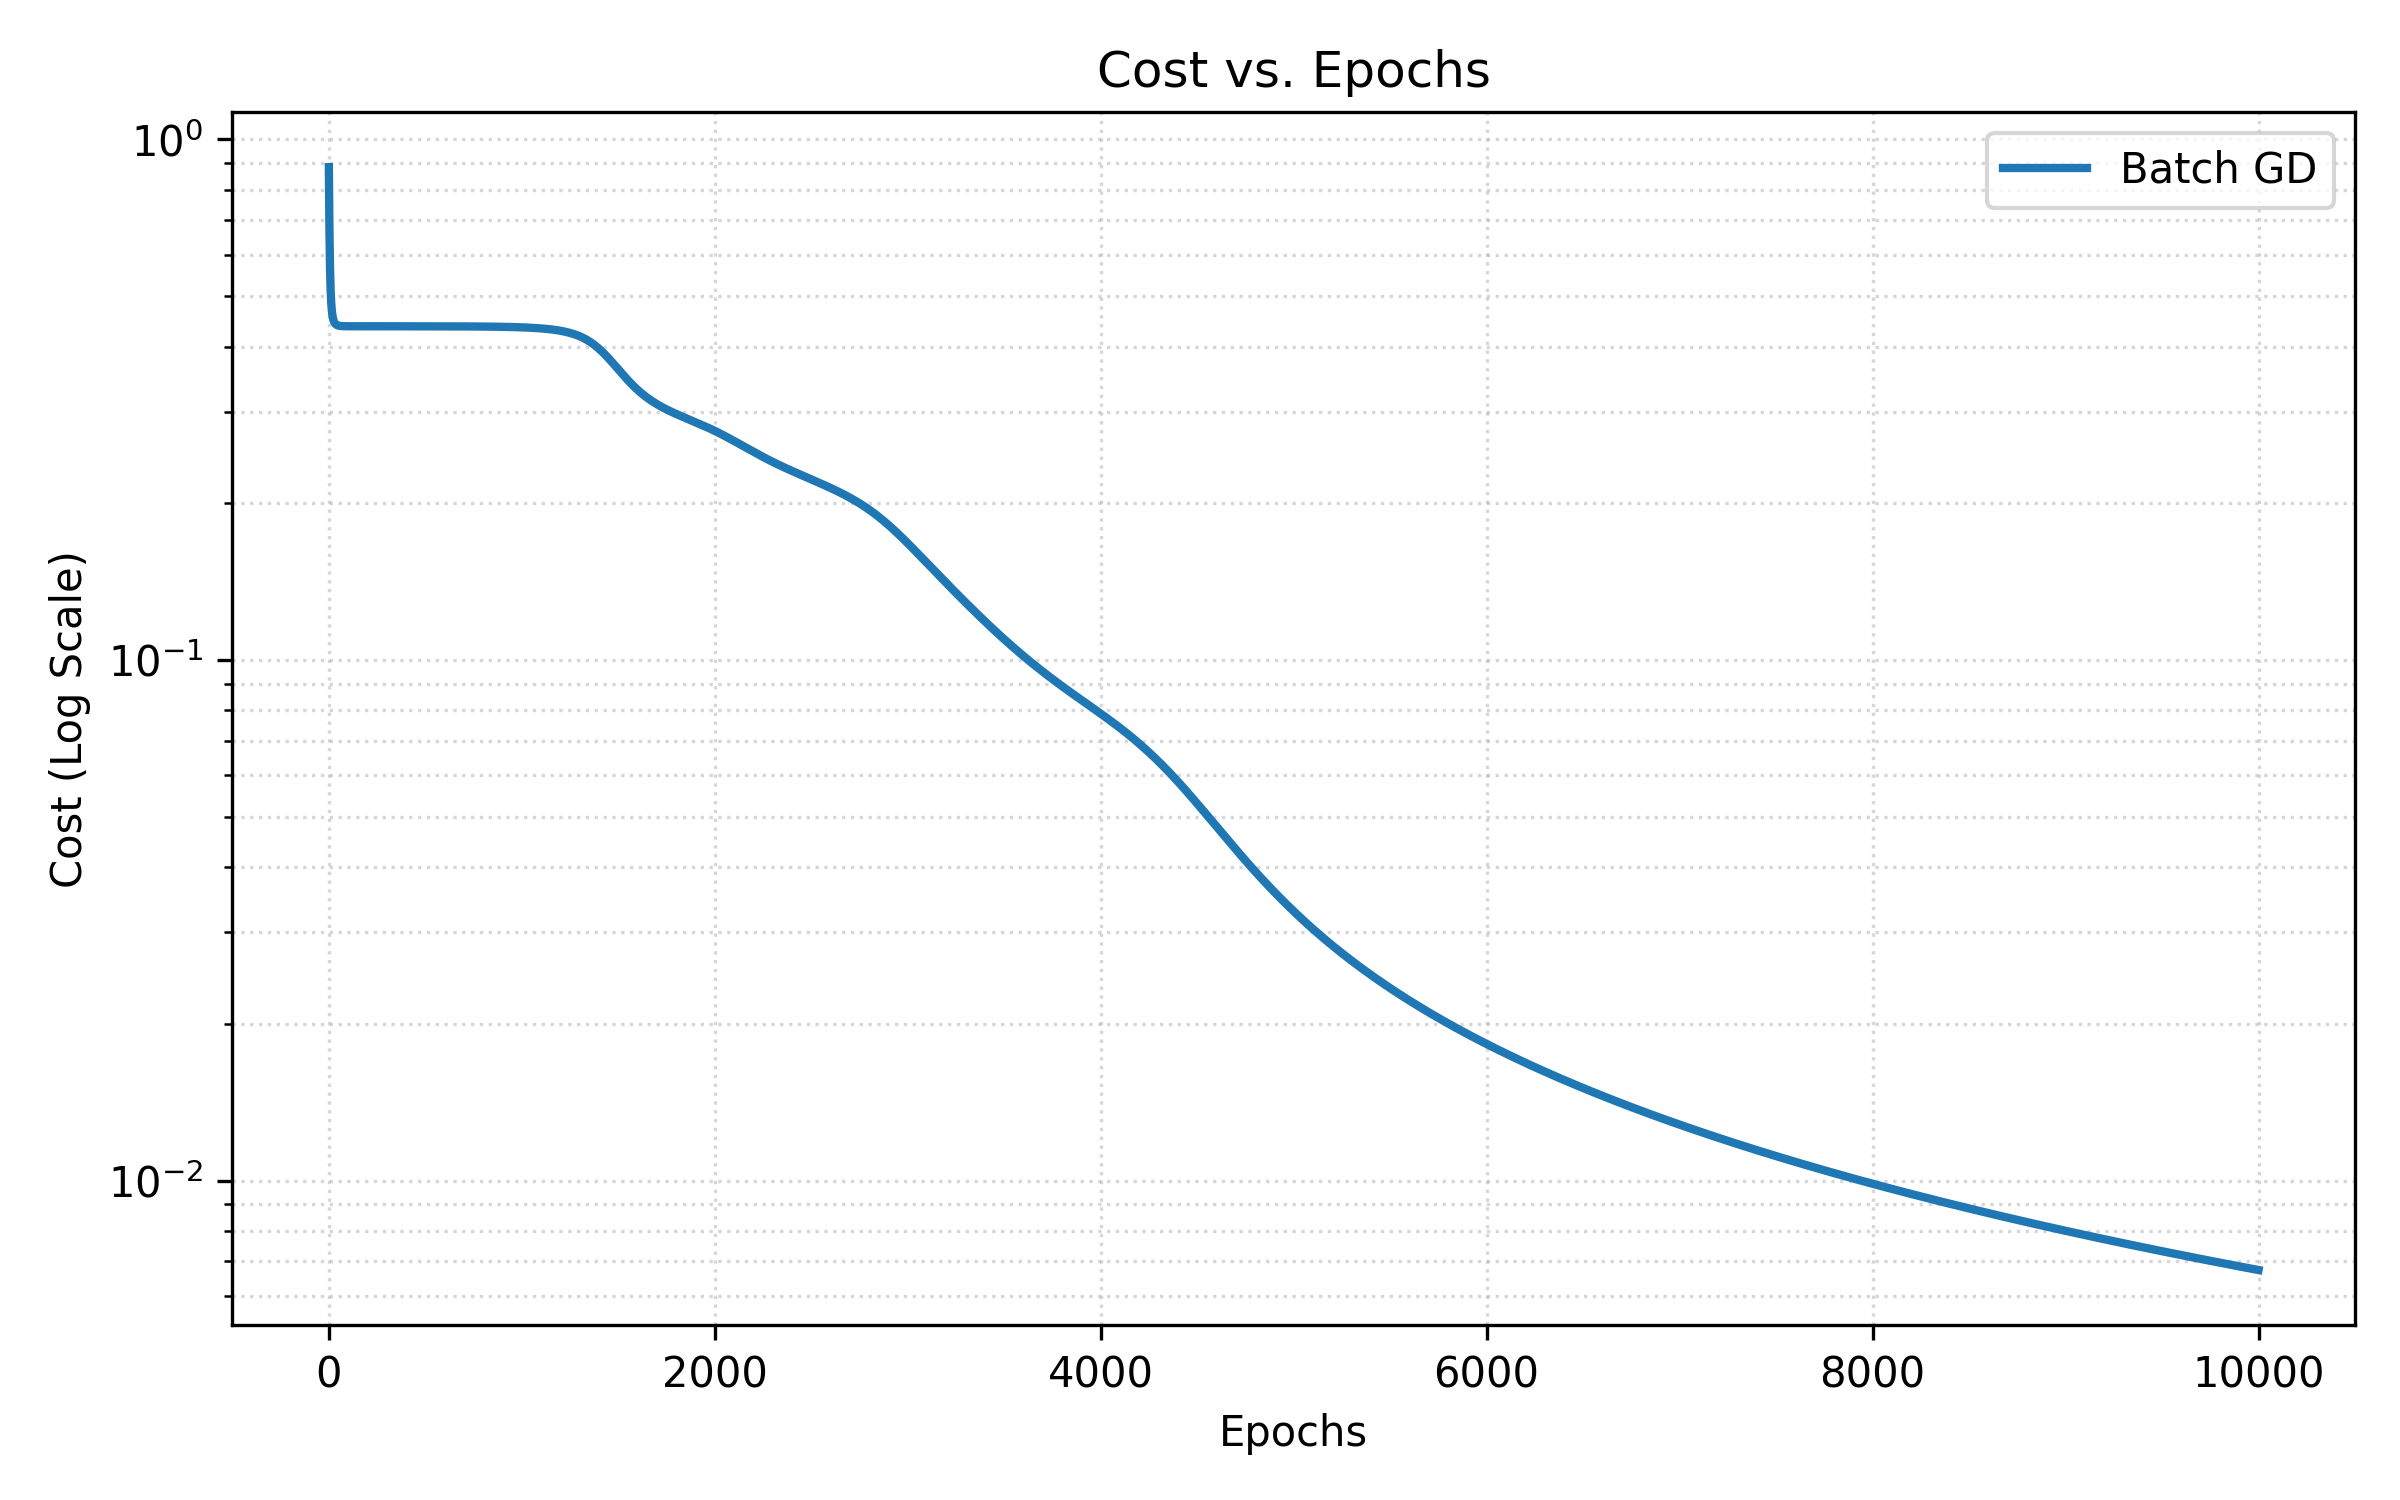
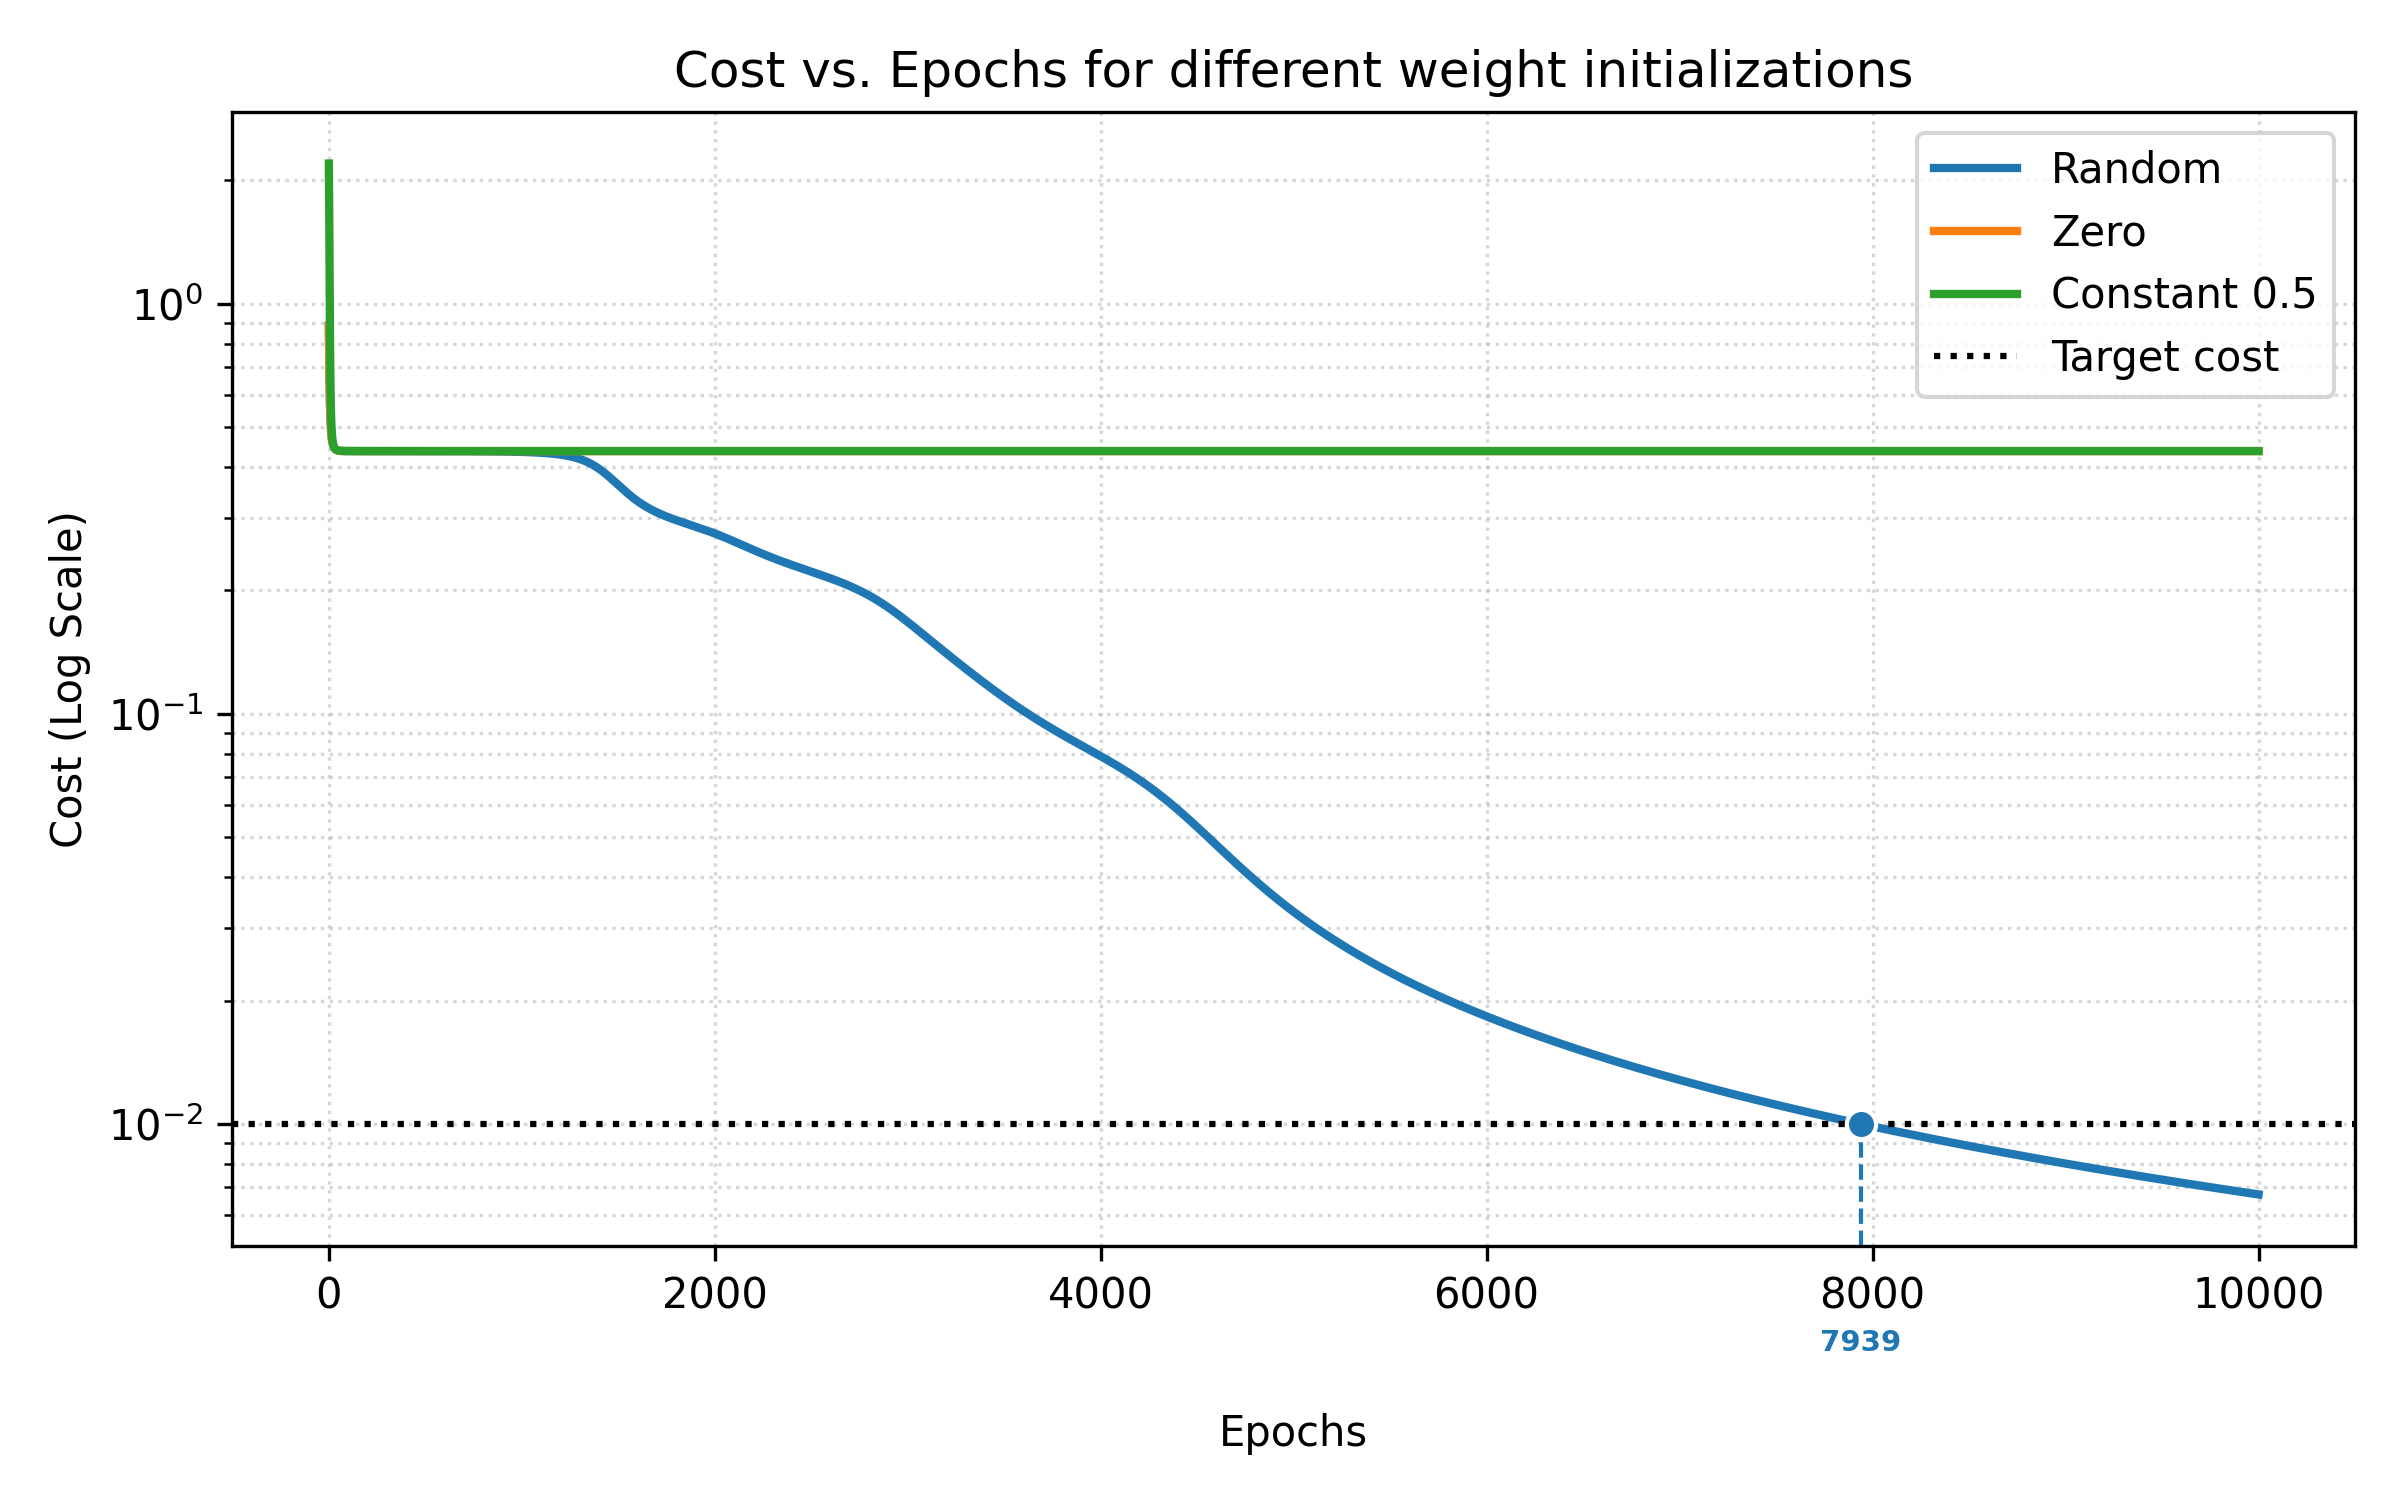
Fixed broken plot for exp5

diff --git a/exp5.py b/exp5.py
@@ -68,7 +68,7 @@ for i, (name, _) in enumerate(weights_t):
 plt.axhline(y=TARGET_COST, color="black", ls=":", linewidth=1.5, label="Target cost")
 plt.yscale("log")
 
-
+ax = plt.gca()
 y_bottom = ax.get_ylim()[0]
 row_last_ep = []  
 for ep, c, color in sorted(conv_marks):
